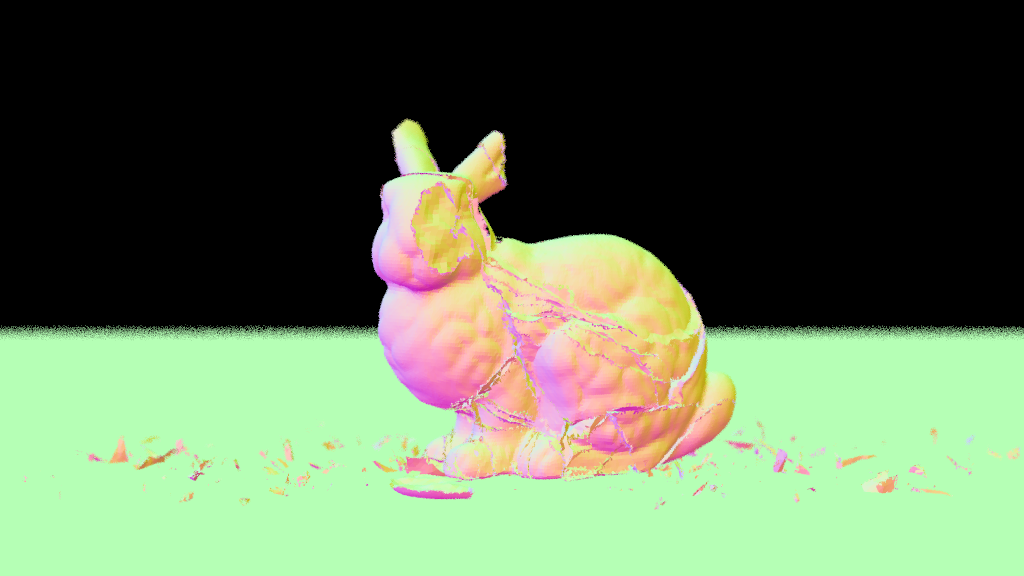
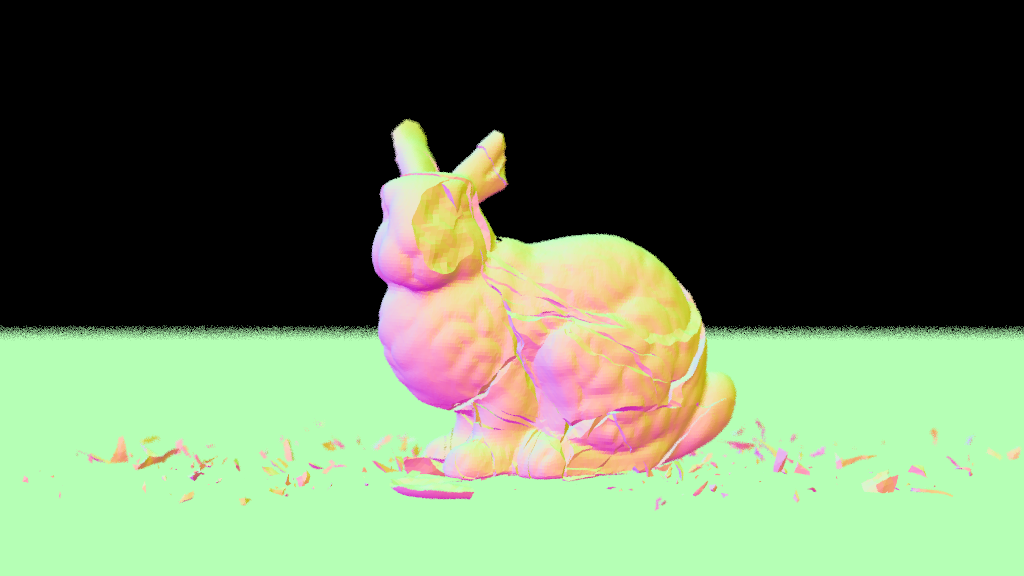
adding comments, adding -j option, adding vignette in readme

diff --git a/src/scene.cpp b/src/scene.cpp
@@ -12,10 +12,12 @@ Color Trace(const Ray& r, Scene *scene, int depth) {
     if (depth <= 0)
         return Color(0,0,0);
 
+    // If no intersection is found return the environment color
     if (!scene->World()->Intersect(r, 0.001, Infinity, rec)) {
         return scene->SampleEnvironment(r);
     }
 
+    // Scatter light
     Ray scattered;
     Color attenuation;
     Color emitted = rec.material->Emitted();
@@ -70,6 +72,8 @@ Scene& Scene::operator=(Scene&& other) {
 
 
 bool Scene::_getNextTile(int &tile) {
+    // Returns true if a tile was given
+    // false if there's no more tile in the queue
     std::unique_lock<std::mutex> lck(_mtx);
     if (_tilesToRender.empty())
         return false;
@@ -81,7 +85,9 @@ bool Scene::_getNextTile(int &tile) {
 
 void Scene::RenderTile() {
     int tile_number;
+    // Run until there's no more tiles left to render
     while(_getNextTile(tile_number)) {
+        // Get the start & end pixel position of the tile
         int tsize = _options.tile_size;
         int start_x = (tile_number % _numTilesWidth) * tsize;
         int end_x = start_x + tsize;
@@ -89,9 +95,11 @@ void Scene::RenderTile() {
         int start_y = (tile_number / _numTilesWidth) * tsize;
         int end_y = start_y + tsize;
 
+        // For every pixel in the tile
         for (int y = start_y; y< end_y; y++) {
             for (int x = start_x; x< end_x; x++) {
                 Color color;
+                // For every sample
                 for (int s = 0; s < _options.pixel_samples; ++s) {
                     Float u = (x + Rng::Rand01()) / _img.Width();
                     Float v = 1.0 - (y + Rng::Rand01()) / _img.Height();
@@ -112,6 +120,8 @@ void Scene::RenderTile() {
 }
 
 void Scene::_updateProgress() {
+    // Update the number of tile rendered
+    // and report progress to the user
     std::unique_lock<std::mutex> lck(_mtx_cout);
     _renderedTiles++;
     Float perc = _renderedTiles / (Float)_numTiles;
@@ -134,8 +144,14 @@ Image Scene::Render() {
     _numTiles = _numTilesWidth * _numTilesHeight;
     _renderedTiles = 0;
 
-    int nThreads = Min(_numTiles, std::thread::hardware_concurrency());
+    // Get the number of threads available
+    int availableThreads = std::thread::hardware_concurrency();
+    // If user override the thread number
+    if (_options.max_threads != -1)
+        availableThreads = Min(availableThreads, _options.max_threads);
 
+    // Final number of threads
+    int nThreads = Min(_numTiles, availableThreads);
     std::cout << "\n\nRunning " << nThreads << " threads\n";
 
 
@@ -163,9 +179,10 @@ void Scene::PrintSettings() {
     std::cout << "Image: " << _options.image_width << "x" << _options.image_height << "\n";
     std::cout << "Pixel samples: " << _options.pixel_samples << "\n";
     std::cout << "Ray Depth: " << _options.max_ray_depth << "\n";
+    std::cout << "Tile size: " << _options.tile_size << "x" << _options.tile_size << "\n";
     std::cout << "Output: " << _options.image_out << "\n\n";
     if(_options.normalOnly)
-        std::cout << "\nSettings renderer to Normal Only\nn";
+        std::cout << "\nSetting renderer to Normal Only\nn";
 }
 
 

diff --git a/src/primitive.cpp b/src/primitive.cpp
@@ -167,13 +167,13 @@ bool BVH::Intersect(const Ray& r, Float tmin, Float tmax, Intersection& rec) con
 
 
 // Triangle & Triangle Mesh Implementation
-
 Triangle::Triangle(const shared_ptr<TriangleMesh> &mesh, int index, shared_ptr<Material> mat) : _mesh(mesh), material(mat) {
     _index = &mesh->vertexIndices[3*index];
 }
 
 
 bool Triangle::Intersect(const Ray& r, Float tmin, Float tmax, Intersection& rec) const {
+    // Get Vertices pos
     const Point &p0 = _mesh->vp[_index[0]];
     const Point &p1 = _mesh->vp[_index[1]];
     const Point &p2 = _mesh->vp[_index[2]];
@@ -200,10 +200,11 @@ bool Triangle::Intersect(const Ray& r, Float tmin, Float tmax, Intersection& rec
     Float v = Dot(r.Direction(), qvec) * invDet;
     if (v < 0 || u + v > 1) return false;
     
-    // Set intersection info
     Float t = Dot(v0v2, qvec) * invDet;
     // Exit is t is not between min and max
     if (t < tmin || t > tmax) return false;
+
+    // Set intersection info
     rec.t = t;
     rec.p = r(rec.t);
     rec.material = material;
@@ -211,10 +212,12 @@ bool Triangle::Intersect(const Ray& r, Float tmin, Float tmax, Intersection& rec
     // Compute Normal
     Vec3 outward_normal =  Normalize(Cross(v0v1, v0v2));
     rec.SetFaceNormal(r, outward_normal);
-    // const Normal &n0 = _mesh->vn[_index[0]];
-    // rec.SetFaceNormal(r, n0);
 
-    ///////////////////////////////////////////////////////////////////////////////////////////////// TODO read normal info from Triangle
+    // const Normal &n0 = _mesh->vn[_index[0]];
+    // const Normal &n1 = _mesh->vn[_index[1]];
+    // const Normal &n2 = _mesh->vn[_index[2]];
+    // Vec3 nn = (n0+n1+n2)/3;
+    // rec.SetFaceNormal(r, nn);
 
     return true;
 
@@ -226,6 +229,7 @@ bool Triangle::BoundingBox(Float t0, Float t1, BBox& output_box) const {
     const Point &p1 = _mesh->vp[_index[1]];
     const Point &p2 = _mesh->vp[_index[2]];
 
+    // Get min and max value of each axis
     Float minx = Min(Min(p0.x, p1.x), p2.x);
     Float miny = Min(Min(p0.y, p1.y), p2.y);
     Float minz = Min(Min(p0.z, p1.z), p2.z);
@@ -241,6 +245,9 @@ bool Triangle::BoundingBox(Float t0, Float t1, BBox& output_box) const {
 
 
 // Triangle & Triangle Mesh Utilities
+
+// Creates a triangle mesh and returns a vector of Triangle Primitive
+// referencing it
 std::vector<shared_ptr<Primitive>> CreateTriangleMesh(
     int nTriangles, std::vector<int> &&vertexIndices, 
     std::vector<Point> &&vp, std::vector<Normal> &&vn,

diff --git a/src/primitive.h b/src/primitive.h
@@ -33,8 +33,6 @@ class Primitive {
         // can be intersected and we can get its bounding box
         virtual bool Intersect(const Ray& r, Float t_min, Float t_max, Intersection& rec) const = 0;
         virtual bool BoundingBox(Float t0, Float t1, BBox& output_box) const = 0;
-
-        shared_ptr<Material> material;
 };
 
 // Primitive List Container
@@ -112,10 +110,9 @@ struct TriangleMesh {
     }
 
     const int nTriangles;
-    // const int nVertices;
     std::vector<int> vertexIndices;
     std::vector<Point> vp; // Vertices positions
-    std::vector<Point> vn;
+    std::vector<Point> vn; // Vertices normals
     // unique_ptr<Vec3[]> s;
     // unique_ptr<Vec2[]> uv;
     // std::shared_ptr<Texture<Float>> alphaMask, shadowAlphaMask;

diff --git a/src/main.cpp b/src/main.cpp
@@ -45,6 +45,9 @@ void PrintUsage() {
     std::cout << "\n -t tile_size\n";
     std::cout << "\tSets the tile size (defaults to 16)\n";
 
+    std::cout << "\n -j max_threads\n";
+    std::cout << "\tLimits the max number of threads\n";
+
     std::cout << "\n --normalOnly\n";
     std::cout << "\tRender the Scene's normal only. No Lighting/material computation\n";
 }
@@ -119,6 +122,9 @@ int main(int argc, char *argv[]) {
         }
         else if (strcmp(argv[i], "--normalOnly") == 0) {
             opt.normalOnly = true;
+        }
+        else if (strcmp(argv[i], "-j") == 0) {
+            opt.max_threads = std::stoi(argv[i+1]);
         }
     }
 

diff --git a/src/nray.h b/src/nray.h
@@ -68,6 +68,7 @@ struct RenderSettings {
   int pixel_samples{20};
   int max_ray_depth{5};
   bool normalOnly{false};
+  int max_threads{-1};
   char const *image_out{"./out.png"};
 };
 

diff --git a/README.md b/README.md
@@ -1,5 +1,5 @@
 # Nray
-
+![Nray][img4]
 ## Project Overview
 
 Nray is a multithreaded physically based raytracer. It reads a scene file that describes a camera, a lighting environment and several objects. It then renders the scene using the raytracing algorithm and outputs an image. It is written in modern c++, and apart from the header only [stb_image.h](https://github.com/nothings/stb/blob/master/stb_image.h) and [stb_image_write.h](https://github.com/nothings/stb/blob/master/stb_image_write.h) it is not using any other libraries so it's easy to compile and run on different architectures. It is a learning project so I tried implementing myself every feature.
@@ -19,12 +19,15 @@ It has a few different Materials defining how the objects interacts with the lig
 Here's a few example renders :
 
 ![Broken Bunny][img3]
+700 samples, 1024x576, 25 max bounces, 4hr30min on 40 threads (Intel(R) Xeon(R) CPU E5-2630 v4 @ 2.20GHz)
 `./nray ../scenes/broken_bunny.nray`
 
 ![Cornell Box][img1]
+1500 samples, 1024x576, 15 max bounces, 1hr5min on 12 threads (Intel(R) Core(TM) i7-9750H CPU @ 2.60Ghz)
 `./nray ../scenes/cornell_box.nray`
 
 ![Test Scene][img2]
+1500 samples, 1024x576, 15 max bounces, 9min50 on 12 threads (Intel(R) Core(TM) i7-9750H CPU @ 2.60Ghz)
 `./nray --testScene`
 
 ## Building and Running Locally
@@ -86,6 +89,9 @@ Optional:
 
  -t tile_size
         Sets the tile size (defaults to 16)
+
+ -j max_threads
+        Limits the max number of threads
 
  --normalOnly
         Render the Scene's normal only. No Lighting/material computation
@@ -190,3 +196,4 @@ A condition variable is used in the project.
 [img2]:                   images/test_scene.png
 [img3]:                   images/broken_bunny.png
 [img4]:                   images/broken_bunny_normals.png
+[img5]:                   images/vignette.jpg
